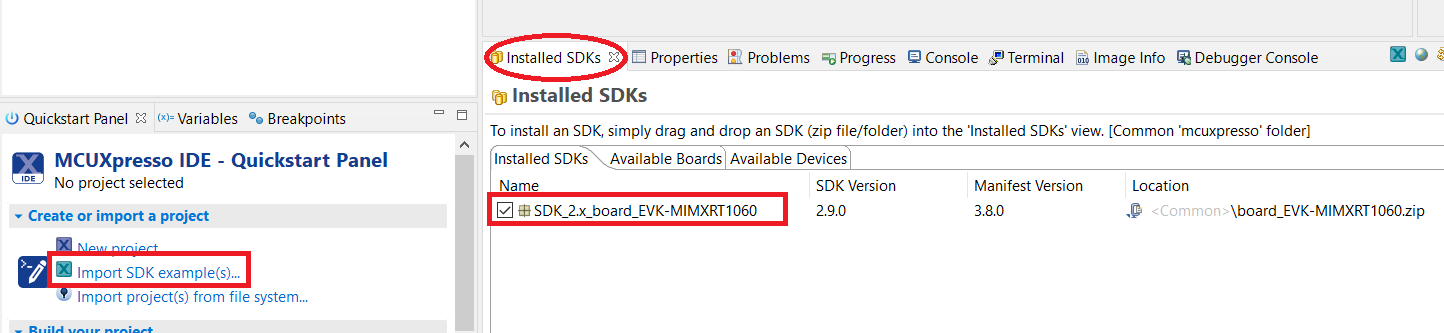
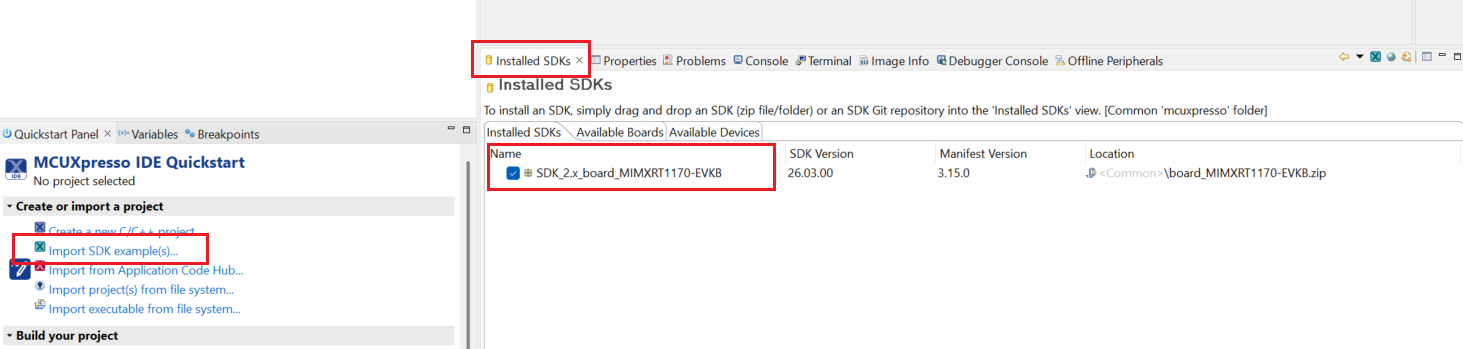
[MCUX-88255] docs: Update EdgeFast Open user guide from RT1060 to RT1170 platform
Update MCUXpresso SDK EdgeFast Open Bluetooth user guide documentation
to use RT1170 as the primary reference platform instead of RT1060,
reflecting current platform focus and hardware configurations.

diff --git a/docs/MCUXSDKEFOPENUG/topics/hardware.md b/docs/MCUXSDKEFOPENUG/topics/hardware.md
@@ -1,8 +1,8 @@
 # Hardware
 
-For dual-chip implementation, the Bluetooth demo runs on a \(reference board\) along with the ported EdgeFast Open Bluetooth API host stack. The Linker Layer \(LL\) runs on a wireless module. A standard UART HCI and PCM is used to communicate between the two boards, the IMU is used to communicate in between. The Bluetooth host and controller stack run on different boards. The demo hardware requires two different boards; a development board for host stack and application and a wireless module adapter board for controller running. For example, the evkmimxrt1060 and uSD-15x15 Adapter Board for AW-AM457-uSD board, or any of the supported Murata modules with the Murata uSD-M.2 adapter. For details on the board hardware requirement and board setting, see the following documents. For one-chip implementation, the Bluetooth demo, EdgeFast Open Bluetooth API host stack, and LL run on one chip and they communicate with IMU.
+For dual-chip implementation, the Bluetooth demo runs on a \(reference board\) along with the ported EdgeFast Open Bluetooth API host stack. The Linker Layer \(LL\) runs on a wireless module. A standard UART HCI and PCM is used to communicate between the two boards, the IMU is used to communicate in between. The Bluetooth host and controller stack run on different boards. The demo hardware requires two different boards; a development board for host stack and application and a wireless module adapter board for controller running. For example, the evkbmimxrt1170 any of the supported Murata modules with the Murata uSD-M.2 adapter. For details on the board hardware requirement and board setting, see the following documents. For one-chip implementation, the Bluetooth demo, EdgeFast Open Bluetooth API host stack, and LL run on one chip and they communicate with IMU.
 
--   Hardware rework guide document of the relative board, Hardware Rework Guide for MIMXRT1060-EVK and AW-AM457-uSD, or Hardware Interconnection Guide for i.MX RT EVKs and Murata M.2 modules.
+-   Hardware rework guide document of the relative board, Hardware Rework Guide for MIMXRT1170-EVKB and Hardware Interconnection Guide for i.MX RT EVKs and Murata M.2 modules.
 -   Readme file of the examples.
 
 

diff --git a/docs/MCUXSDKEFOPENUG/topics/run_an_iar_example.md b/docs/MCUXSDKEFOPENUG/topics/run_an_iar_example.md
@@ -2,12 +2,12 @@
 
 This document uses the peripheral\_ht as an example to describe the steps to run an example. For details on other projects and compilers, see the readme file in the corresponding example directory.
 
-The following figure shows the connection of RT1060 and the uSD wireless module.
+The following figure shows the connection of RT1170 and the M.2 wireless module.
 
 ![](../images/image9.png "Development board
 				connector")
 
-1.  Connect the USB debug console port to PC. For example, connect J14 of EVKRT1060 to the PC.
+1.  Connect the USB debug console port to PC.
 2.  Connect a 5 V power source to the J1 jack in the Wireless module board.
 3.  Make the appropriate debugger settings in the project options window, as shown in the figure below.
 
@@ -19,7 +19,7 @@ The following figure shows the connection of RT1060 and the uSD wireless module.
     ![](../images/image11.png "IAR debugger
     						running")
 
-5.  Linker layer \(LL\) Firmware running in wireless module loads from EVKRT1060 by SDIO interface, so need take a bit time to download the LL firmware, “Initialize AW-AM457-uSD Driver” prints in the debug console. For example, it depends on the firmware. For details, see readme.txt.
+5.  Linker layer \(LL\) Firmware running in wireless module loads from EVKRT1170 by UART interface, so need take a bit time to download the LL firmware, For details, see readme.txt.
 
 **Note:** The projects are configured to use “CMSIS DAP” as the default debugger. Ensure that the OpenSDA chip of the board contains a CMSIS. DAP firmware or that the debugger selection corresponds to the physical interface used to interface to the board.
 

diff --git a/docs/MCUXSDKEFOPENUG/topics/reference_boards_list.md b/docs/MCUXSDKEFOPENUG/topics/reference_boards_list.md
@@ -2,10 +2,10 @@
 
 -   MIMXRT1170: For details, see the quick start guide of this reference board \([MIMXRT1170](https://www.nxp.com/design/development-boards/i-mx-evaluation-and-development-boards/i-mx-rt1170-evaluation-kit:MIMXRT1170-EVK)\).
 
--   MIMXRT685-EVK: For details, see the quick start guide of this reference board \([MIMXRT685-EVK](https://www.nxp.com/design/development-boards/i-mx-evaluation-and-development-boards/i-mx-rt600-evaluation-kit:MIMXRT685-EVK)\).
+<!-- -   MIMXRT685-EVK: For details, see the quick start guide of this reference board \([MIMXRT685-EVK](https://www.nxp.com/design/development-boards/i-mx-evaluation-and-development-boards/i-mx-rt600-evaluation-kit:MIMXRT685-EVK)\).
 
 -   MIMXRT595-EVK: For details, see the quick start guide of this reference board. \([MIMXRT595-EVK](https://www.nxp.com/design/development-boards/i-mx-evaluation-and-development-boards/i-mx-rt595-evaluation-kit:MIMXRT595-EVK)\).
--   MIMXRT1050-EVKB: For details, see the quick start guide of this reference board \([MIMXRT1050-EVKB](https://www.nxp.com/design/development-boards/i-mx-evaluation-and-development-boards/i-mx-rt1050-evaluation-kit:MIMXRT1050-EVK)\).
+-   MIMXRT1050-EVKB: For details, see the quick start guide of this reference board \([MIMXRT1050-EVKB](https://www.nxp.com/design/development-boards/i-mx-evaluation-and-development-boards/i-mx-rt1050-evaluation-kit:MIMXRT1050-EVK)\). -->
 
 **Parent topic:**[Hardware](../topics/hardware.md)
 

diff --git a/docs/MCUXSDKEFOPENUG/topics/architecture.md b/docs/MCUXSDKEFOPENUG/topics/architecture.md
@@ -4,7 +4,7 @@ The figure Architecture of EdgeFast Open demo in MCUXpresso SDK below shows that
 
 ![](../images/architecture_of_mcux_sdk_edgefast_open.png "Architecture of EdgeFast Open Bluetooth demo in MCUXpresso SDK")
 
-MCUXpresso SDK has the dual-chip architecture defined by EdgeFast Open Bluetooth project, the Bluetooth application code, and the EdgeFast Open Bluetooth host stack running on the reference board. For example, MIMXRT1060-EVK and the Linker Layer \(LL\) run on the Bluetooth modules like AW-AM457-USD, Murata Type 1XK, and Murata Type 1ZM and has single-chip architecture. Bluetooth Host stack and LL runs on the same chip, and communicate with Internal Communication Unit \(IMU\).
+MCUXpresso SDK has the dual-chip architecture defined by EdgeFast Open Bluetooth project, the Bluetooth application code, and the EdgeFast Open Bluetooth host stack running on the reference board. For example, MIMXRT1170-EVKB and the Linker Layer \(LL\) run on the Bluetooth modules like AW-AM457-USD, Murata Type 1XK, and Murata Type 1ZM and has single-chip architecture. Bluetooth Host stack and LL runs on the same chip, and communicate with Internal Communication Unit \(IMU\).
 
 The communication between the host stack and the LL is implemented via the standard HCI UART interface and PCM interface for voice, or the IMU interface.
 

diff --git a/docs/MCUXSDKEFOPENUG/topics/dual-chip_wireless_module_list.md b/docs/MCUXSDKEFOPENUG/topics/dual-chip_wireless_module_list.md
@@ -10,6 +10,7 @@
 |K32W061|UART|
 |Murata uSD-M.2 Adapter \(LBEE0ZZ1WE-uSD-M2\) and Embedded Artists 1ZM M.2 Module \(EAR00364\)|UART|
 |Murata uSD-M.2 Adapter \(LBEE0ZZ1WE-uSD-M2\) and Embedded Artists 1XK M.2 Module \(EAR00385\)|UART|
+|Murata uSD-M.2 Adapter \(LBEE0ZZ1WE-uSD-M2\) and Embedded Artists 2EL M.2 Module \(Rev-A1\)|UART|
 
 For details on AzureWave module, see the quick start guide of this reference board [AW-AM457-uSD](http://www.azurewave.com/img/nxp/uSD-1515%20Adaptor%20Board_User%20guide_C_20200821.pdf), [AW-CM358-uSD](http://www.azurewave.com/img/nxp/uSD-1212%20Adaptor%20Board_User%20guide_G_20210127.pdf), [AW-CM358MA](http://www.azurewave.com/img/nxp/AW-CM358MA_DS_DF_C_STD.pdf), [AW-AM510-uSD](https://www.azurewave.com/img/nxp/AW-AM510-uSD_User%20guide_A_210126.pdf), [AW-CM510MA](https://www.azurewave.com/img/nxp/AW-AM510MA_DS_DF_C_STD.pdf), and [K32W061](https://www.nxp.com/products/wireless/thread/k32w061-41-high-performance-secure-and-ultra-low-power-mcu-for-zigbeethread-and-bluetooth-le-5-0-with-built-in-nfc-option:K32W061_41).
 

diff --git a/docs/MCUXSDKEFOPENUG/topics/folder_structure.md b/docs/MCUXSDKEFOPENUG/topics/folder_structure.md
@@ -12,7 +12,7 @@ The following table provides information regarding the structure and description
 
 |**Folder**|**Description**|
 |------------|-----------------|
-|*boards/* *CMSIS/* *devices/* *docs/* *middleware/* *rtos/* *tools/*|MCUXpresso SDK directory. Refer to Chapter 5 Release contents of MCUXpresso SDK Release Notes at *root/docs/ MCUXpresso SDK Release Notes for EVK-MIMXRT1060.pdf* to *know the details*|
+|*boards/* *CMSIS/* *devices/* *docs/* *middleware/* *rtos/* *tools/*|MCUXpresso SDK directory. Refer to Chapter 5 Release contents of MCUXpresso SDK Release Notes at *root/docs/ MCUXpresso SDK Release Notes for EVK-MIMXRT1170.pdf* to *know the details*|
 |*boards/<board\>/wireless/edgefast\_open\_examples*|EdgeFast Open Bluetooth host stack example projects|
 |*middleware/wireless/edgefast\_open*|EdgeFast Open Bluetooth host stack source code|
 

diff --git a/docs/MCUXSDKEFOPENUG/topics/build_an_iar_example.md b/docs/MCUXSDKEFOPENUG/topics/build_an_iar_example.md
@@ -10,7 +10,7 @@
     ![](../images/image8.png "IAR project
     							build")
 
-    **Note:** Wireless module does not have flash hardware and requires 512 KB image loaded from board \(such as RT1060\) on system startup. The 512 KB image is kept on RT1060 side and only `flexspi_nor target` is supported for Bluetooth examples. Other targets are not supported because memory size limit.
+    **Note:** Wireless module does not have flash hardware and requires 512 KB image loaded from board \(such as RT1170\) on system startup. The 512 KB image is kept on RT1170 side and only `flexspi_nor target` is supported for Bluetooth examples. Other targets are not supported because memory size limit.
 
 
 **Parent topic:**[Run a demo application using IAR](../topics/run_a_demo_application_using_iar.md)

diff --git a/docs/index.rst b/docs/index.rst
@@ -19,14 +19,14 @@ Currently we provide pdf version of those documentation, later release may conve
 
    HWRGEFOPENUG/ugindex.md
 
-.. toctree::
-   :maxdepth: 1
-   :caption: Enabling Additional EdgeFast Open Bluetooth Host stack Examples on RT1064
+.. .. toctree::
+..    :maxdepth: 1
+..    :caption: Enabling Additional EdgeFast Open Bluetooth Host stack Examples on RT1064
 
-   EAEFOPENERT1064UG/ugindex.md
+..    EAEFOPENERT1064UG/ugindex.md
 
-.. toctree::
-   :maxdepth: 1
-   :caption: Enabling Additional EdgeFast Open Bluetooth Host stack Examples on M4 core for RT1170
+.. .. toctree::
+..    :maxdepth: 1
+..    :caption: Enabling Additional EdgeFast Open Bluetooth Host stack Examples on M4 core for RT1170
 
-   EFEM4RT1170UG/ugindex.md
+..    EFEM4RT1170UG/ugindex.md

diff --git a/docs/MCUXSDKEFOPENUG/topics/demo.md b/docs/MCUXSDKEFOPENUG/topics/demo.md
@@ -1,6 +1,6 @@
 # Demo
 
-This topic lists the steps to run a demo application using IAR, steps to run a demo application using MCUXpresso IDE, and steps to download LL firmware from the reference board. The following chapter uses RT1060 and peripheral\_ht as an example.
+This topic lists the steps to run a demo application using IAR, steps to run a demo application using MCUXpresso IDE, and steps to download LL firmware from the reference board. The following chapter uses RT1170 and peripheral\_ht as an example.
 
 Before you run the example, see the readme.txt in current the peripheral\_ht directory and the Hardware Rework Guide for EdgeFast Open document to set the jumper and connect the wireless module with development board.
 

diff --git a/docs/MCUXSDKEFOPENUG/topics/run_a_demo_application_using_iar.md b/docs/MCUXSDKEFOPENUG/topics/run_a_demo_application_using_iar.md
@@ -1,6 +1,6 @@
 # Run a demo application using IAR
 
-This document uses EVKRT1060 EdgeFast Open Bluetooth API example to describe the steps to open a project, build an example, and run a project. For details, see Section 3 in *Getting Started with MCUXpresso SDK User’s Guide*\(document MCUXSDKGSUG\) at*root/docs/Getting Started with MCUXpresso SDK.pdf*.
+This document uses EVKRT1170 EdgeFast Open Bluetooth API example to describe the steps to open a project, build an example, and run a project. For details, see Section 3 in *Getting Started with MCUXpresso SDK User’s Guide*\(document MCUXSDKGSUG\) at*root/docs/Getting Started with MCUXpresso SDK.pdf*.
 
 
 ```{include} ../topics/open_an_iar_example.md

diff --git a/docs/MCUXSDKEFOPENUG/topics/toolchain_support.md b/docs/MCUXSDKEFOPENUG/topics/toolchain_support.md
@@ -5,7 +5,7 @@
 -   Keil® MDK/μVision
 -   Makefiles support with GCC from Arm Embedded
 
-**Note:** For details on IDE Development tools version details, see Section 3, Development tools in MCUXpresso SDK Release Notes \(document MCUXSDKMIMXRT106XRN\). The Release Notes document is available at *root/docs/ MCUXpresso SDK Release Notes for EVK-MIMXRT1060.pdf*.
+**Note:** For details on IDE Development tools version details, see Section 3, Development tools in MCUXpresso SDK Release Notes \(document MCUXSDKMIMXRT117XRN\). The Release Notes document is available at *root/docs/ MCUXpresso SDK Release Notes for EVK-MIMXRT1170.pdf*.
 
 **Parent topic:**[Features](../topics/features.md)
 

diff --git a/docs/MCUXSDKEFOPENUG/topics/open_an_mcuxpresso_ide_example.md b/docs/MCUXSDKEFOPENUG/topics/open_an_mcuxpresso_ide_example.md
@@ -12,11 +12,11 @@
 
     ![](../images/image14.png "MCUXpresso IDE Import SDK Projects")
 
-4.  Select the evkmimxrt1060 board and click the **Next** button to select the desired example\(s\).
+4.  Select the evkbmimxrt1170 board and click the **Next** button to select the desired example\(s\).
 
     ![](../images/image15.png "MCUXpresso IDE Board selector")
 
-5.  Select the evkmimxrt1060 board EdgeFast Open example. For example, peripheral\_ht.
+5.  Select the evkbmimxrt1170 board EdgeFast Open example. For example, peripheral\_ht.
 6.  Ensure to change SDK debug console from **Semihost** to **UART**.
 7.  Click **Finish**.
 
